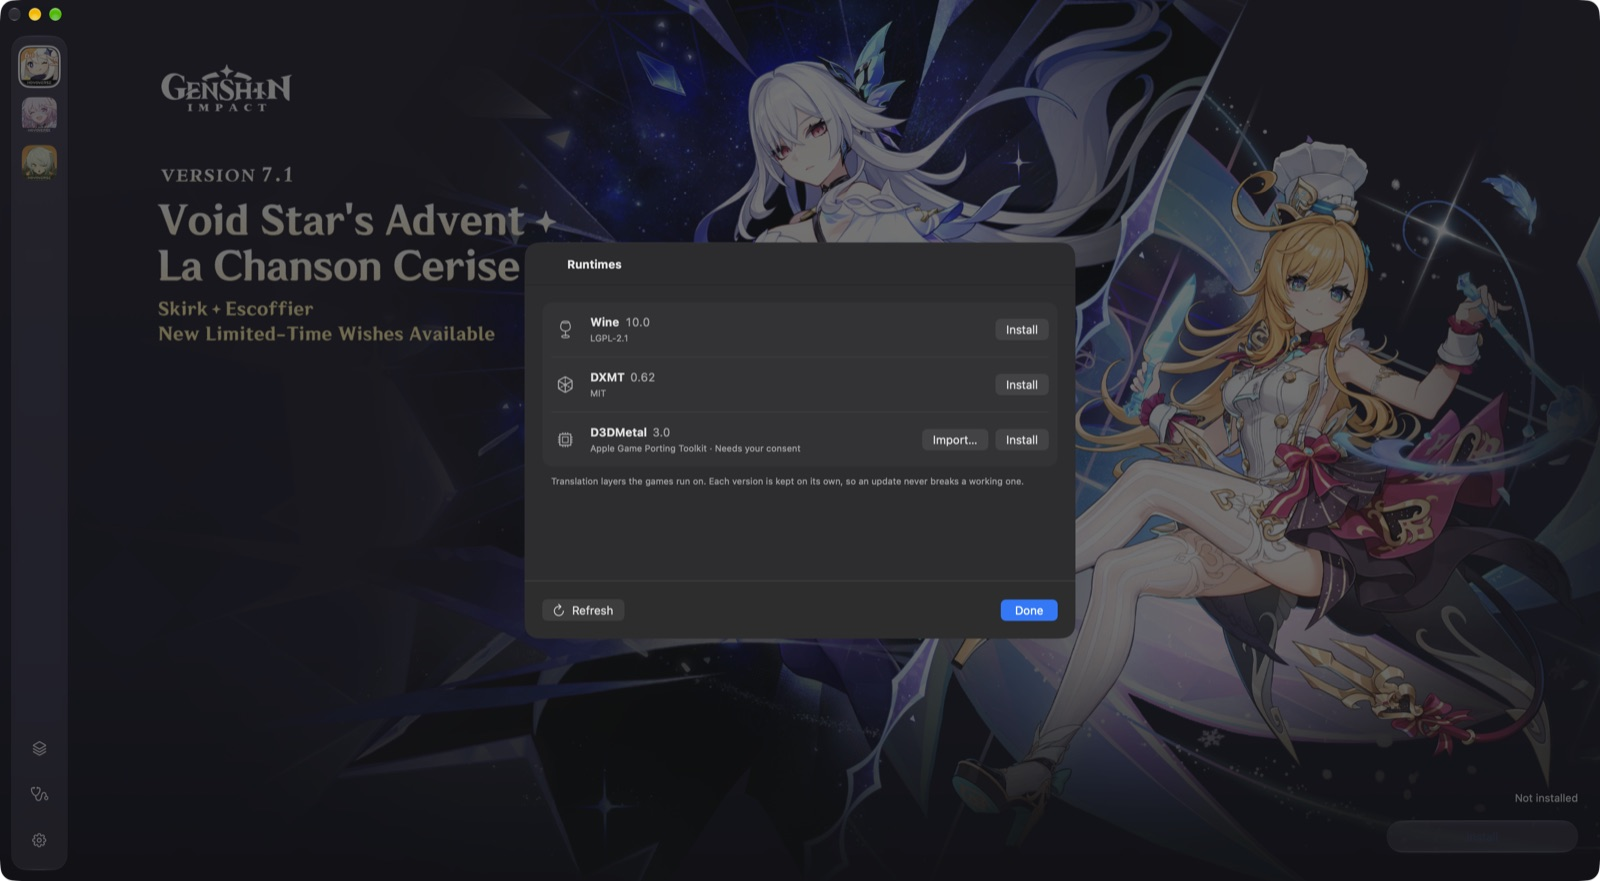
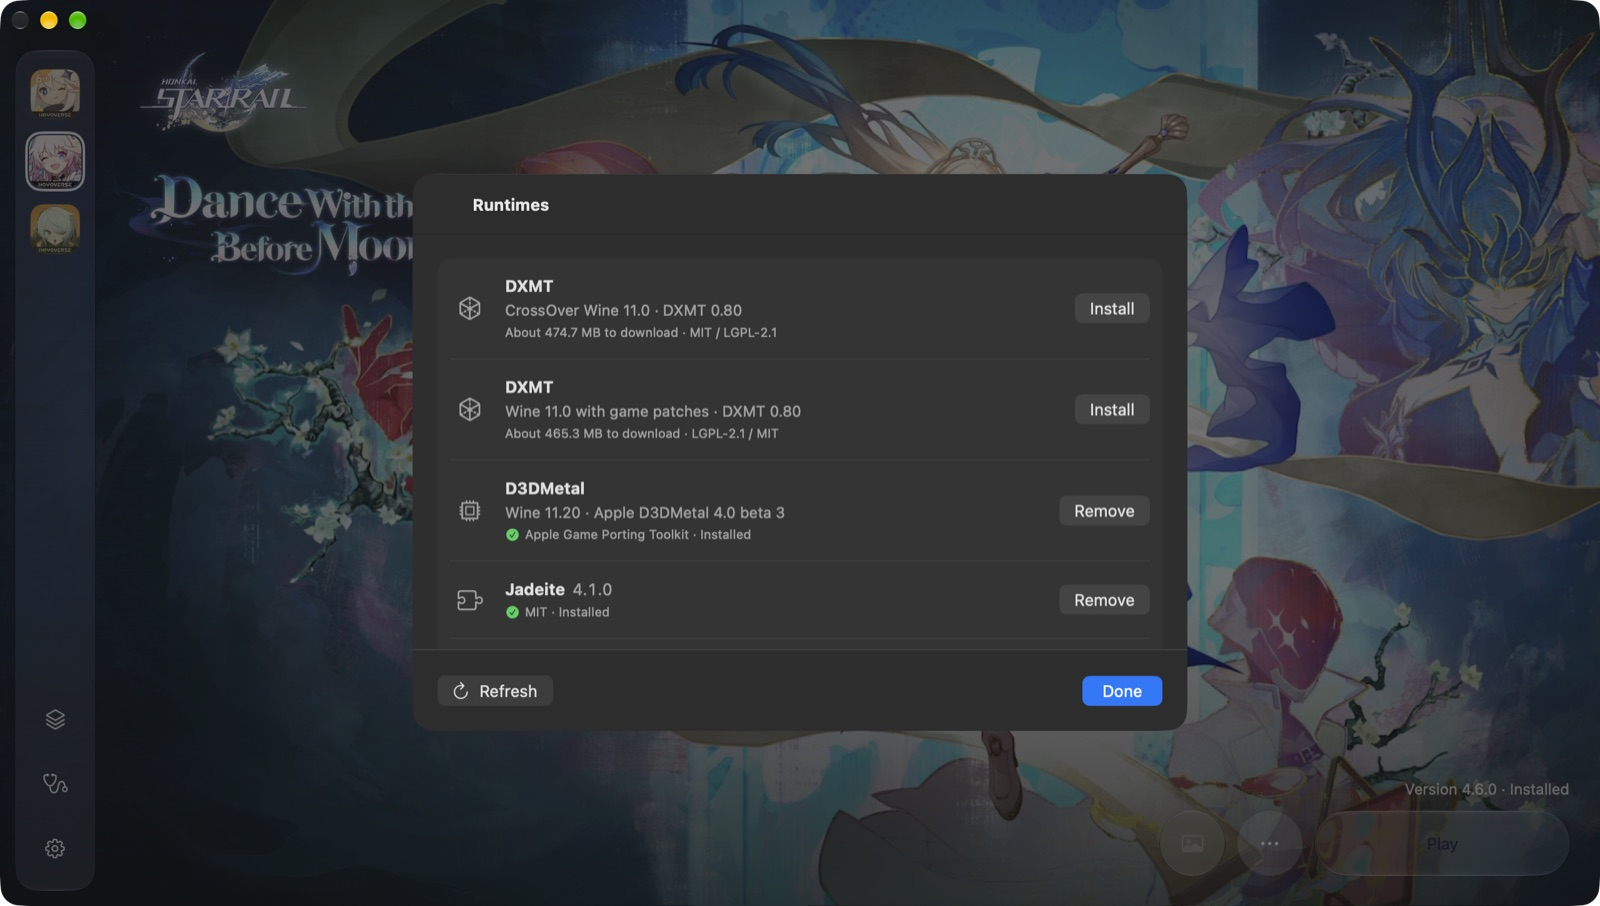
Docs: one-click Play is done, new screenshots (#71)
* Docs: one-click Play is done

- README roadmap: one-click Play, setup, per-game settings, recovery,
  privacy and languages move to Done; Mainland China editions and the
  first beta are in progress.
- AGENTS.md current state: M2b done after owner acceptance on
  2026-10-24; CN status with the crypt32 blocker; beta and DMG planned.

* README: refresh screenshots

- New launcher, Runtimes and one-click setup screenshots from the
  current build; add the Mainland China region in Simplified Chinese.

---------

diff --git a/README.md b/README.md
@@ -1,6 +1,6 @@
 # MacGacha — universal launcher for HoYoverse games on Apple Silicon
 
-> 🚧 **Work in progress.** Games can be installed, updated, verified and started with one click. Play is in final testing across all three games. There are no releases yet.
+> 🚧 **Work in progress.** Games can be installed, updated, verified and started with one click in all three games. The first beta release is being prepared.
 
 A native macOS launcher for **Genshin Impact**, **Honkai: Star Rail** and **Zenless Zone Zero** on Apple Silicon. It aims to provide reliable resumable downloads, file verification, and managed Wine / DXMT / D3DMetal runtimes.
 
@@ -10,13 +10,17 @@ Code and documentation in this repository may be written or modified with assist
 
 ## Screenshots
 
-![Launcher with the current Genshin Impact banner](assets/screenshots/launcher.jpg)
+![Launcher with the current Honkai: Star Rail banner, ready to play](assets/screenshots/launcher.jpg)
 
 | Install | Downloading |
 |---|---|
 | ![Install sheet with location, voice packs and a disk-space estimate](assets/screenshots/install.jpg) | ![Download in progress, with pause](assets/screenshots/progress.jpg) |
 
-![Runtimes panel with Wine, DXMT and D3DMetal](assets/screenshots/runtimes.jpg)
+| One-click setup | Runtimes |
+|---|---|
+| ![Set Up sheet listing the runtime a game needs, with its size](assets/screenshots/setup.jpg) | ![Runtimes panel with Wine, DXMT, D3DMetal and jadeite](assets/screenshots/runtimes.jpg) |
+
+![Mainland China region with the interface in Simplified Chinese](assets/screenshots/region-cn.jpg)
 
 ## Roadmap
 
@@ -26,6 +30,12 @@ Code and documentation in this repository may be written or modified with assist
 - **Runtimes.** Wine, DXMT and D3DMetal are downloaded and kept side by side, so an update never breaks a working version. D3DMetal is installed only after you accept Apple's terms, or imported from an existing Game Porting Toolkit. The default DXMT build now uses CrossOver's Wine, which needs about 2.5× less CPU than the previous one.
 - **Compatibility components.** jadeite and a Steam launcher shim are installed and removed from the Runtimes window. We build the shim ourselves, reproducibly, from Valve's Proton source ([release](https://github.com/deruta74/MacGacha/releases/tag/steam-shim-proton-10.0-4)).
 - **Launcher.** One window for all three games with the official banners and background art, plus a diagnostics bundle for bug reports.
+- **One-click Play.** Press Play, and the launcher prepares the Wine prefix and the compatibility workaround, starts the game and minimizes itself to the Dock. When the game closes, it comes back and puts back any game files it hid. Accepted in all three games on D3DMetal and DXMT.
+- **One-click setup.** When a game needs runtimes, "Set Up…" lists exactly what it needs for its settings (the Wine bundle and its compatibility component) and installs it all in one go, asking for Apple's terms only when D3DMetal is part of it. The Runtimes panel stays available for picking versions by hand.
+- **Per-game settings:** graphics backend, frame limit, Retina mode, DirectX 12 for Zenless Zone Zero, and a switch for the compatibility workaround.
+- **Recovery.** If the launcher crashes or is quit while a game runs, it finds the game again on restart and restores everything once the game exits. Quitting during a game asks first.
+- **Privacy.** Games run in their own Wine prefix with no links to your Desktop, Documents or other home folders. Session logs stay on your Mac and can be turned off in Settings.
+- **Languages.** English and Simplified Chinese interface; game news and art follow the interface language.
 
 **Verified by hand on an M5 Pro (macOS 27)**
 
@@ -39,22 +49,14 @@ All three games start and play with a community anti-cheat workaround. None of t
 
 DXMT works for every game and stays available as the open-source alternative. The 60 fps cap fixes uneven frame pacing in Star Rail and Genshin; it can be changed per game.
 
-**Working now: one-click Play** (final testing)
-- Press Play, and the launcher prepares the Wine prefix and the compatibility workaround, starts the game and minimizes itself to the Dock. When the game closes, it comes back and puts back any game files it hid. Tested end to end with Genshin Impact.
-- One-click setup: when a game needs runtimes, "Set Up…" lists exactly what it needs for its settings (the Wine bundle and its compatibility component) and installs it all in one go, asking for Apple's terms only when D3DMetal is part of it. The Runtimes panel stays available for picking versions by hand.
-- Per-game settings: graphics backend, frame limit, Retina mode, DirectX 12 for Zenless Zone Zero, and a switch for the compatibility workaround.
-- Recovery: if the launcher crashes or is quit while a game runs, it finds the game again on restart and restores everything once the game exits. Quitting during a game asks first.
-- Privacy: games run in their own Wine prefix with no links to your Desktop, Documents or other home folders. Session logs stay on your Mac and can be turned off in Settings.
-
 **In progress**
-- **Acceptance of Play** in all three games, including online features (co-op, events, purchases), and an automated launch test against real Wine for D3DMetal and DXMT.
-- **Clearer launch logs** with the session's start, end and restore result.
+- **Mainland China editions (beta):** a region switch in Settings shows 原神, 崩坏：星穹铁道 and 绝区零 with their own installs, prefixes and settings. 绝区零 installs from the miHoYo servers and reaches the login screen; a Wine fix for the mainland builds' signature check comes next.
+- **First beta release** as a downloadable disk image.
 
 **Next**
 - **Display choice:** pick the monitor a game opens on when several are connected; the main display by default.
 - **Rotating banners and news** like HoYoPlay: several background arts per game, event cards, and Events / Notices / News tabs.
-- **Languages:** a translated interface, and game news and art in your language.
-- **Mainland China servers** through the miHoYo launcher endpoints.
+- **More languages** for the interface.
 - **Downloads:** estimated time remaining; pre-downloading the next version before release; smaller patch-based updates.
 - **Audio:** surround output from the games, including Spatial Audio on AirPods.
 - **Releases:** signed and notarized builds with automatic updates.

diff --git a/AGENTS.md b/AGENTS.md
@@ -6,7 +6,7 @@ Read this before you change anything. **Keep it current:** when you add a module
 
 ## What this is
 
-MacGacha is a native macOS launcher for Genshin Impact, Honkai: Star Rail and Zenless Zone Zero (Global servers) on Apple Silicon.
+MacGacha is a native macOS launcher for Genshin Impact, Honkai: Star Rail and Zenless Zone Zero on Apple Silicon, for Global servers and, in beta, Mainland China.
 
 - **What it does:**
   - installs, updates, verifies and repairs games through HoYoverse's official Sophon delivery;
@@ -116,12 +116,11 @@ Code must keep these guarantees. A PR that weakens one won't be merged.
   - runtime manager with Wine, DXMT and D3DMetal bundles plus jadeite and Steam shim components;
   - HoYoPlay art;
   - diagnostics;
-  - localization: English and Simplified Chinese; HoYoPlay art and news follow the interface language.
-- Recommended runtime setup model: `runtimeSetupPlan(for:)`, `installRecommended(for:)`, `cancelRuntimeSetup(for:)`, observable per-game progress and failure dismissal. Plans share the launch requirement check; consent uses the existing sheet and accepted-state cache. Chains serialize downloads, join existing items, preserve completed installs after failure, and survive region/game changes. The footer's "Set Up…" opens `RuntimeSetupSheet` (item list, sizes, Apple-terms note, Choose Manually… to the Runtimes panel) and shows chain progress with a stop button and a failure line.
-- **In progress:** one-click Play.
-  - Done so far: process spawner and inspector, recipes and resolver, session journal and file hiding, session proxy, prefix launch preparation, session logs with a global off setting and per-launch copies, session locks and runtime pins, launch manager state machine with exclusive watch/reattach/restore ownership and acknowledged recovery notices; milestone safety fixes add under-lock journal barriers, unresolved-startup protection, pinned runtime replacement and same-volume external-install recovery.
-  - App launch model integration includes guarded recovery retries (5/15/60 seconds, then every minute and on activation), explicit Retry, and a launch reservation through durable finalization; the Play footer, settings and quit/recovery presentation remain pending view-layer integration.
-- Region endpoint, delivery policy and art-cache foundations support Mainland China; all six game definitions, independent install folders, CN recipes/log paths and edition-aware adopt checks are implemented. CN-3 model APIs now provide locale-based persisted region selection, three visible games per region, independent lazy art/status refresh and other-region activity without cancelling operations or sessions. The region picker and rail presentation are pending Claude’s view-layer integration.
-- **Planned:** HoYoPlay-style rotating banners and news, more translations, mainland China region picker and live verification, download ETA, surround and Spatial Audio, signed and notarized releases with Sparkle updates.
+  - localization: English and Simplified Chinese; HoYoPlay art and news follow the interface language;
+  - one-click Play (M2b): process spawner and inspector, recipes and resolver, session journal and file hiding, session proxy, prefix launch preparation, session logs, locks and runtime pins, the launch manager with watch/reattach/restore and recovery notices, and the app's Play footer, game settings, quit confirmation and recovery presentation. Owner acceptance passed on 2026-10-24 for all three Global games on D3DMetal and DXMT; Star Rail's in-game hotfix restart waits for a real hotfix;
+  - recommended runtime setup: `runtimeSetupPlan(for:)` / `installRecommended(for:)` share the launch requirement check; the footer's "Set Up…" opens `RuntimeSetupSheet` and shows chain progress with a stop button and a failure line;
+  - app icon (`App/Resources/Assets.xcassets`).
+- **In progress:** Mainland China editions. Region selection, the three CN editions with their own IDs, folders, recipes and edition-aware adopt, and the region picker are done. ZZZ CN installs from the live CN CDN and reaches the login screen, then crashes after about 90 s under Wine 11.20 because of a crypt32 signature-verification bug (fixed upstream in Wine MR 11824); a pinned fixed `crypt32.dll` component is next.
+- **Planned:** first beta release (unsigned DMG via `scripts/package-dmg.sh` once that lands), HoYoPlay-style rotating banners and news, more translations, display choice, download ETA, surround and Spatial Audio, signed and notarized releases with Sparkle updates.
 
 Update this section when a milestone task lands.
